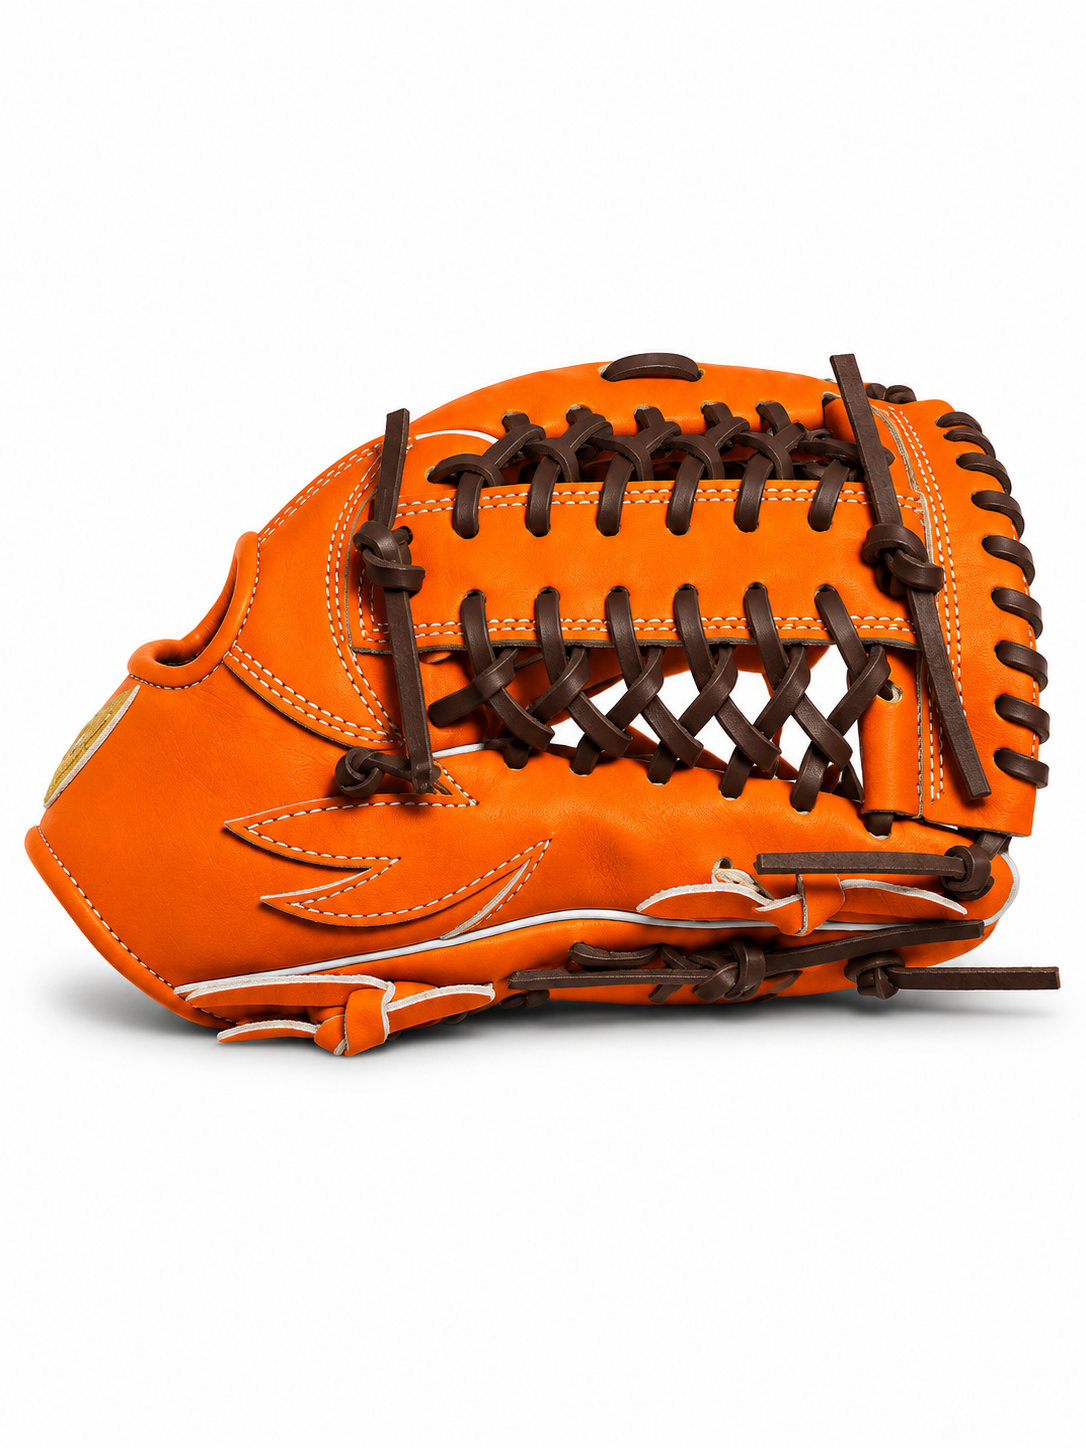
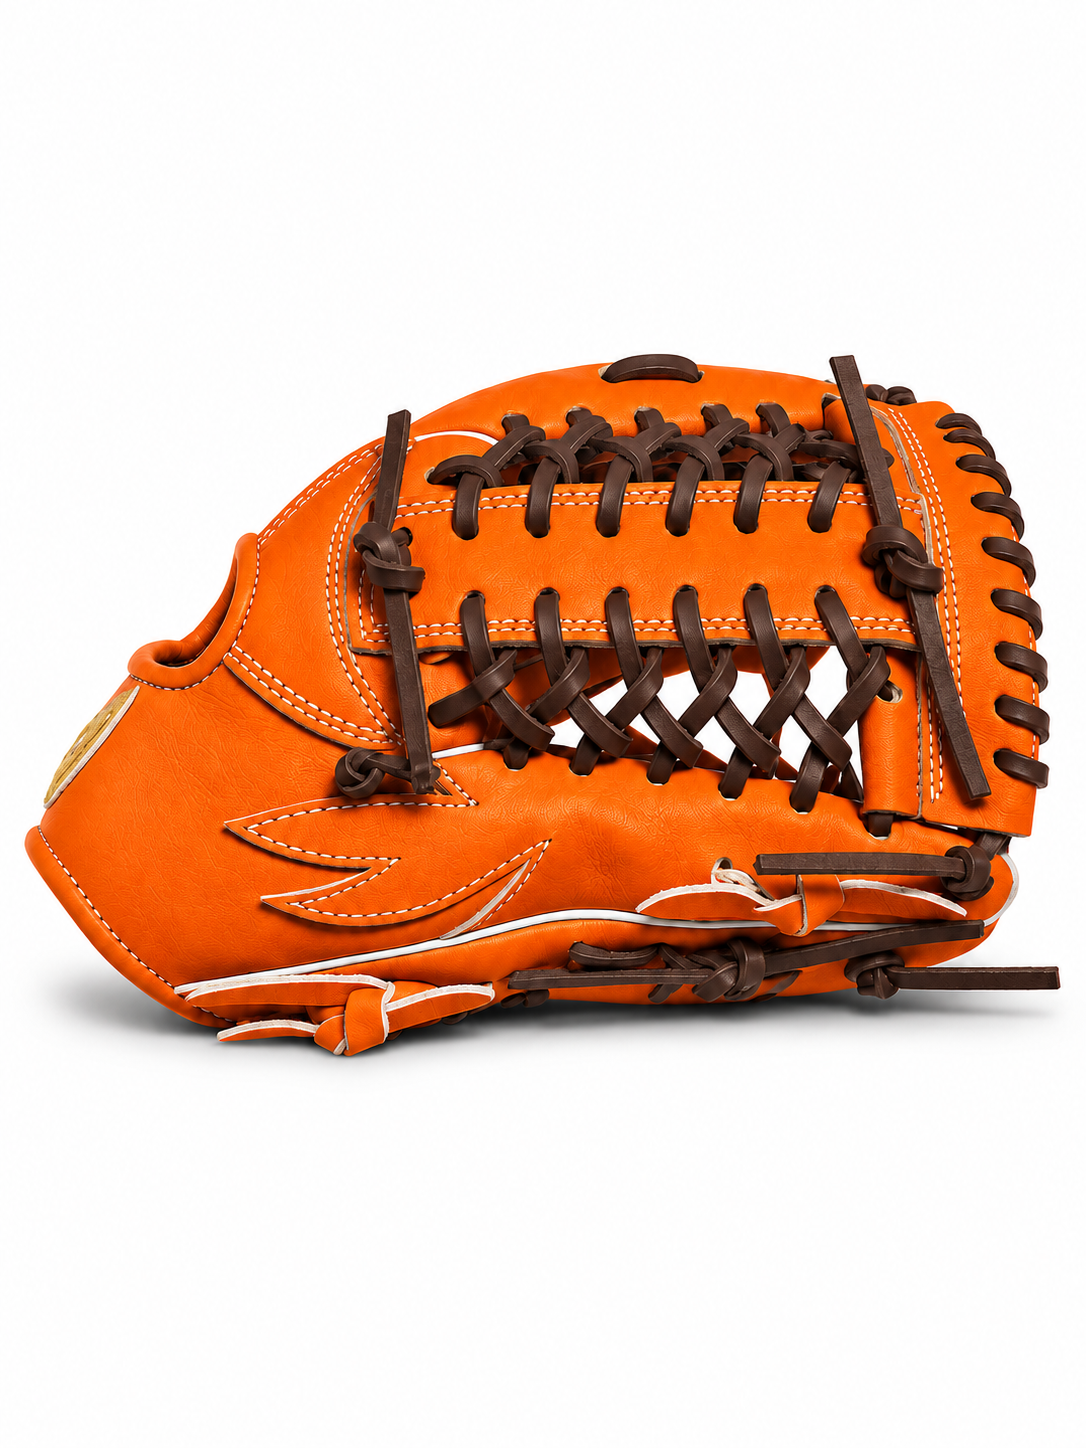
Refresh OR17 photos and update related glove labels

diff --git a/test/full-size.test.js b/test/full-size.test.js
@@ -1,7 +1,6 @@
 import test from 'node:test';
 import assert from 'node:assert/strict';
 import { existsSync, readFileSync } from 'node:fs';
-import { createHash } from 'node:crypto';
 import { breakInService, fullSizeProducts, localProducts } from '../src/catalog.js';
 import { createStorefrontRenderer } from '../src/storefront-render.js';
 import { productJsonLd, productPath } from '../src/seo.js';
@@ -111,34 +110,28 @@ function webpChunks(buffer) {
   return chunks;
 }
 
-// Fingerprint of the 520-byte LS34H55xG RGB ICC embedded in the approved
-// or17_back.png, or17_palm.png and or17_finger_side.png sources.
-// The raw photos stay outside Git; CI checks against their captured profile.
[1 lines of base64/hex data omitted]
-for (const [angle, side] of [['back', 456], ['palm', 408], ['finger-side', 522]]) {
-  test(`orange ${angle} JPEG and responsive WebPs preserve the approved source ICC and dimensions`, () => {
+// The replacement OR17 sources use standard RGB without an embedded ICC profile.
+for (const [angle, side] of [['back', 1197], ['palm', 1322], ['side', 1206], ['finger-side', 1438]]) {
+  test(`orange ${angle} JPEG and responsive WebPs preserve source color metadata and dimensions`, () => {
     const jpeg = jpegMetadata(readFileSync(publicFile(`/images/full-size/orange-${angle}.jpg`)));
-    assert.equal(jpeg.profile.length, 520);
-    assert.equal(createHash('sha256').update(jpeg.profile).digest('hex'), orangeSourceIccHash);
-    assert.equal(jpeg.profile.toString('ascii', 36, 40), 'acsp');
+    assert.equal(jpeg.profile.length, 0);
     assert.deepEqual([jpeg.width, jpeg.height], [side, side]);
     for (const width of [480, 960].filter(width => width < side).concat(side)) {
       const chunks = webpChunks(readFileSync(publicFile(`/images/full-size/orange-${angle}-${width}.webp`)));
-      assert.deepEqual(chunks.get('ICCP'), jpeg.profile);
-      const extended = chunks.get('VP8X');
-      assert.ok(extended[0] & 0x20, 'WebP ICC flag must be set');
-      assert.deepEqual([extended.readUIntLE(4, 3) + 1, extended.readUIntLE(7, 3) + 1], [width, width]);
+      assert.equal(chunks.has('ICCP'), false);
+      const frame = chunks.get('VP8 ');
+      assert.deepEqual([frame.readUInt16LE(6) & 0x3fff, frame.readUInt16LE(8) & 0x3fff], [width, width]);
     }
   });
 }
 
-test('the low-resolution orange palm offers only its native 408px canvas', () => {
+test('the replacement orange palm offers responsive sizes and its full canvas for zoom', () => {
   const image = fullSizeProducts.find(product => product.color === 'orange').images[1];
-  assert.equal(image.width, 408);
+  assert.equal(image.width, 1322);
   const html = renderer.route('/product/or17');
-  assert.ok(html.includes('srcset="/images/full-size/orange-palm-408.webp 408w"'));
-  assert.ok(html.includes('data-image="/images/full-size/orange-palm-408.webp"'));
-  for (const width of [480, 960]) assert.equal(existsSync(publicFile(`/images/full-size/orange-palm-${width}.webp`)), false);
+  assert.ok(html.includes('srcset="/images/full-size/orange-palm-480.webp 480w, /images/full-size/orange-palm-960.webp 960w, /images/full-size/orange-palm-1322.webp 1322w"'));
+  assert.ok(html.includes('data-image="/images/full-size/orange-palm-1322.webp"'));
+  assert.equal(existsSync(publicFile('/images/full-size/orange-palm-408.webp')), false);
 });
 
 test('full-size pages offer the confirmed throw-hand options and stay in teaser mode', () => {

diff --git a/src/catalog.js b/src/catalog.js
@@ -61,7 +61,7 @@ export function purchasePrice(product, service, includeService) {
 }
 
 export const localProducts = Object.freeze([
-  { id: 'brown', name: 'CL16', descriptor: '10.25" Trainer · US Steerhide', pitch: 'Designed to make defensive reps more demanding without sacrificing the feel, control, and response of a traditional glove.', tone: 'Olive Brown / Tan / Brown', swatches: ['#b97941', '#62452e'], accentColor: '#9a622d', accentBackground: '#f8f3eb', price: 155, currencyCode: 'USD', available: true, throwingHand: 'Right', wornOnHand: 'Left', images: [1, 2, 3, 4].map(n => `/images/brown${n}.PNG`) },
+  { id: 'brown', name: 'CL16', descriptor: '10.25" Trainer · US Steerhide', pitch: 'Designed to make defensive reps more demanding without sacrificing the feel, control, and response of a traditional glove.', tone: 'Camel / Toffee / Black', swatches: ['#b97941', '#62452e'], accentColor: '#9a622d', accentBackground: '#f8f3eb', price: 155, currencyCode: 'USD', available: true, throwingHand: 'Right', wornOnHand: 'Left', images: [1, 2, 3, 4].map(n => `/images/brown${n}.PNG`) },
   { id: 'blue', name: 'OB16', descriptor: '10.25" Trainer · US Steerhide', pitch: 'Designed to make defensive reps more demanding without sacrificing the feel, control, and response of a traditional glove.', tone: 'Baby Blue / Royal / Navy', swatches: ['#b7dce9', '#1956ac', '#202c40'], accentColor: '#2560ae', accentBackground: '#eef6fa', price: 155, currencyCode: 'USD', available: true, throwingHand: 'Right', wornOnHand: 'Left', images: [1, 2, 3, 4].map(n => `/images/blue${n}.PNG`) },
   { id: 'black', name: 'BR16', descriptor: '10.25" Trainer · US Steerhide', pitch: 'Designed to make defensive reps more demanding without sacrificing the feel, control, and response of a traditional glove.', tone: 'Black / Red / Gray', swatches: ['#202326', '#d3423e', '#a7a9a8'], accentColor: '#d3423e', accentBackground: '#f8f1f0', price: 155, currencyCode: 'USD', available: true, throwingHand: 'Right', wornOnHand: 'Left', images: [1, 2, 3, 4].map(n => `/images/black${n}.PNG`) }
 ]);
@@ -88,7 +88,7 @@ const fullSizePhotoSizes = Object.freeze({
   mint: { back: 1254, palm: 1202, side: 1254, 'finger-side': 1254 },
   black: { back: 1271, palm: 1276, side: 1442, 'finger-side': 1208 },
   camel: { back: 1198, palm: 1244, side: 612, 'finger-side': 1119 },
-  orange: { back: 456, palm: 408, side: 1206, 'finger-side': 522 }
+  orange: { back: 1197, palm: 1322, side: 1206, 'finger-side': 1438 }
 });
 const fullSizePhotos = (color, tone) => fullSizeAngles.map(([angle, view]) => ({
   src: `/images/full-size/${color}-${angle}.jpg`,

diff --git a/src/storefront-render.js b/src/storefront-render.js
@@ -299,7 +299,8 @@ function productPage(product) {
 }
 
 function gloveLinkCard(product) {
-  return `<a class="other-glove-card" href="${productPath(product)}" data-link data-product="${escapeHtml(product.id)}">${gloveThumbnail(product, '', '(max-width: 760px) 92px, 120px', 'lazy')}<span class="other-glove-meta"><strong>${escapeHtml(product.name)}</strong><small>${escapeHtml(product.line === 'full-size' ? `Full-size · ${product.tone}` : product.tone)}</small></span>${arrow()}</a>`;
+  const role = product.line === 'full-size' ? product.specs.find(([label]) => label === 'Position')[1] : 'Trainer';
+  return `<a class="other-glove-card" href="${productPath(product)}" data-link data-product="${escapeHtml(product.id)}">${gloveThumbnail(product, '', '(max-width: 760px) 92px, 120px', 'lazy')}<span class="other-glove-meta"><strong>${escapeHtml(product.name)}</strong><small>${escapeHtml(`${role} · ${product.tone}`)}</small></span>${arrow()}</a>`;
 }
 
 function about() {

diff --git a/scripts/prepare-full-size-images.py b/scripts/prepare-full-size-images.py
@@ -15,10 +15,10 @@ ROOT = Path(__file__).resolve().parents[1]
 OUT = ROOT / 'public' / 'images' / 'full-size'
 OUT.mkdir(parents=True, exist_ok=True)
 
-MODELS = [('mint', 'mint_glove'), ('black', 'black_glove'), ('camel', 'camel_glove'), ('orange', 'orange_glove')]
+MODELS = [('mint', 'mi26'), ('black', 'bl50'), ('camel', 'cm24'), ('orange', 'or17')]
 ANGLES = ['back', 'palm', 'side', 'finger_side']
 # Rows to trim from the top of a source photo (removes a stray screenshot strip).
-TOP_TRIM = {('orange', 'back'): 8}
+TOP_TRIM = {}
 # Share of the square the glove's longer side fills. The mini glove photos average
 # about 86%, which leaves roughly 7% white space on each side.
 GLOVE_FILL = 0.86
@@ -31,7 +31,7 @@ for color, folder in MODELS:
     if ONLY and color not in ONLY:
         continue
     for angle in ANGLES:
-        image = ImageOps.exif_transpose(Image.open(ROOT / 'images' / folder / f'{color}_{angle}.png'))
+        image = ImageOps.exif_transpose(Image.open(ROOT / 'images' / folder / f'{folder}_{angle}.png'))
         # Keep the source RGB interpretation through newly created canvases.
         # Dropping a non-sRGB ICC profile changes its appearance in the browser.
         profile = image.info.get('icc_profile')
